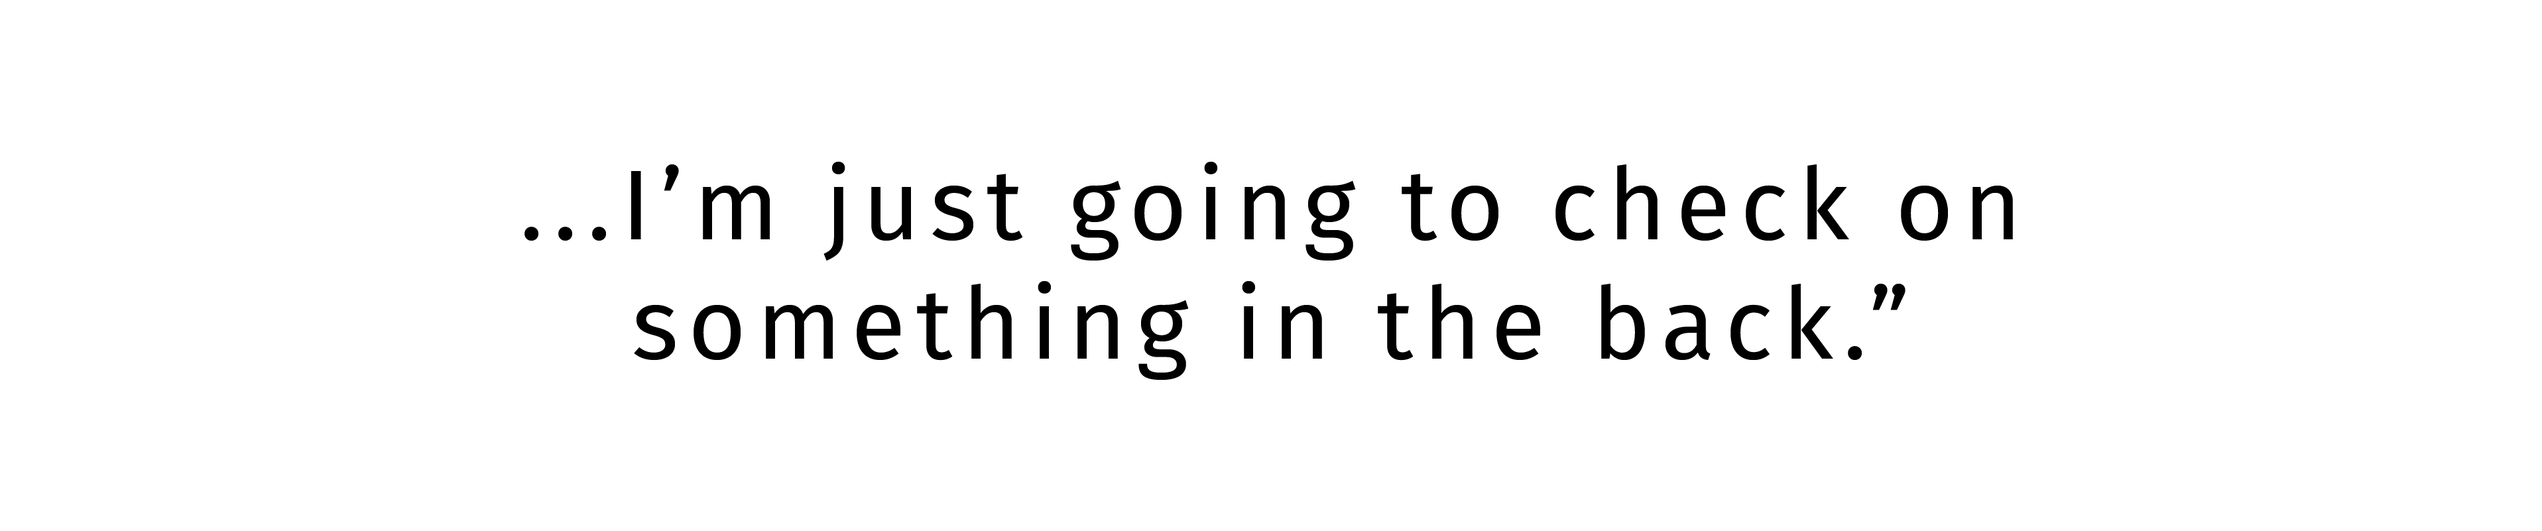
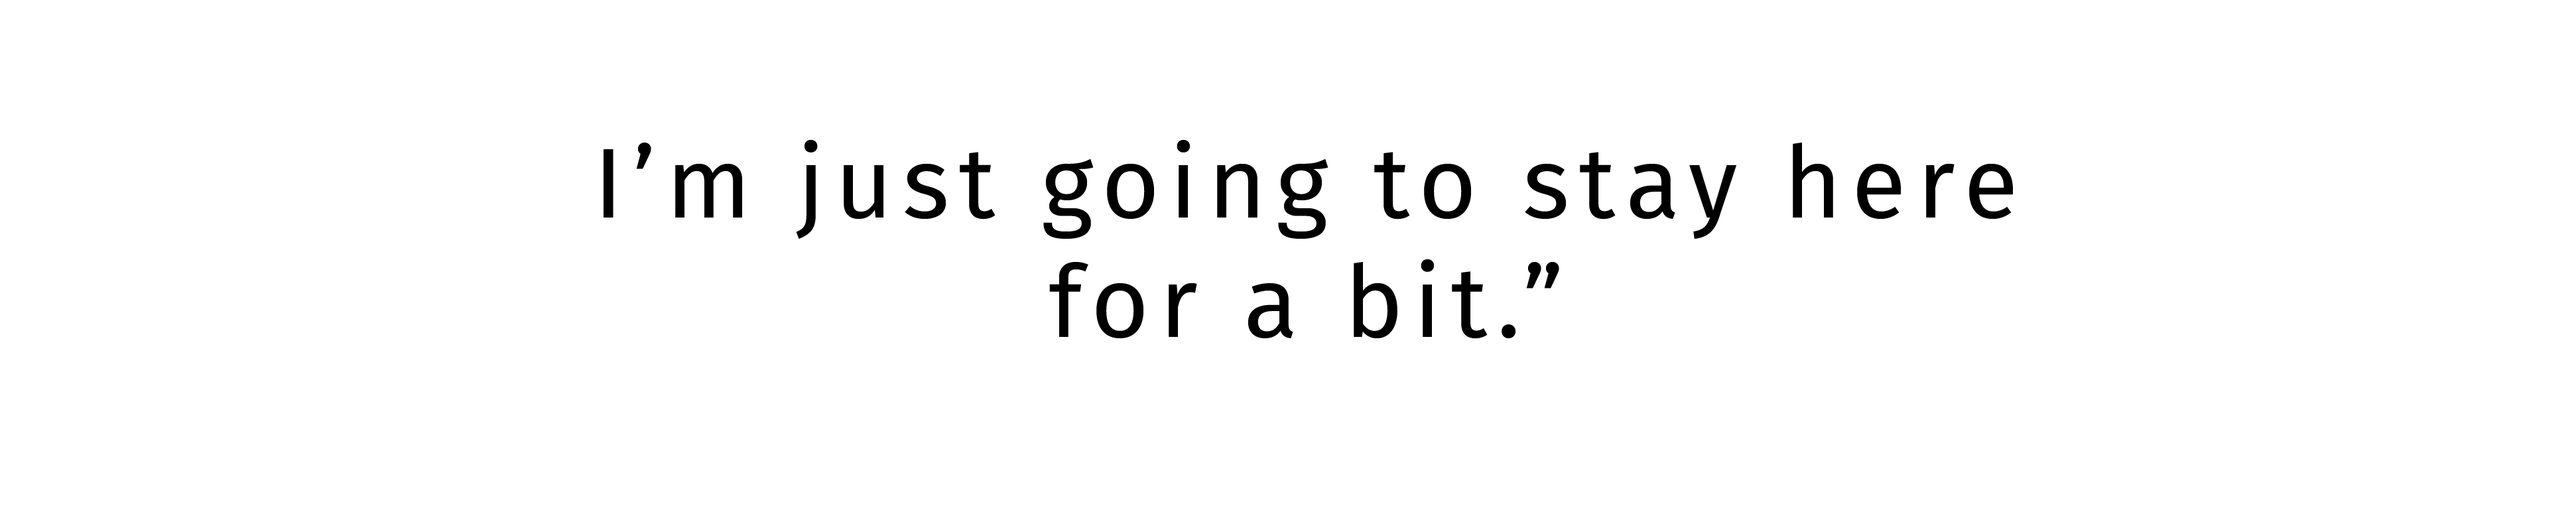
added stuff

Changed region(s): [[0.2173, 0.2798, 0.807, 0.715]]

diff --git a/TestGame/d3-game.js b/TestGame/d3-game.js
@@ -24,9 +24,20 @@
         .attr("x", 50)
         .attr("y", 50);
     let text1;
-    let girl;
-    let paddle = svg.append('svg:image');
+    let text2;
+    let text3;
+    let text4;
+    let text5;
+    let text6;
     let background = svg.append('svg:image').attr('xlink:href', 'images/stage/1.png');
+    let girl = svg.append('svg:image').attr('xlink:href', 'images/sprites/girlright.gif');
+    girl.attr("x", 160).attr("y", 390)
+        .attr("width", 130).attr("height", 130)
+        .attr("opacity", 0);
+    let paddle = svg.append('svg:image');
+    let hint = svg.append('svg:image').attr('xlink:href', 'images/sprites/glow.png')
+        .attr("x", 50).attr("y", 600)
+        .attr("width", 400).attr("height", 200).attr("opacity", 0);
     let nextDialog = false;
 
     // When a key is pressed, add it to the current keys array for further tracking
@@ -57,7 +68,7 @@
                 .classed(which + "_paddle", true)
                 .attr({
                     'xlink:href': 'images/sprites/idleleft.gif',
-                    "opacity": "0"
+                    "opacity": "0",
                 }),
                 update = function(x, y) {
                     let height = Screen().height * 0.15;
@@ -147,28 +158,76 @@
     }
 
     svg.on("click", function() {
+        console.log(dialog);
         if (backgroundNum == 0 || backgroundNum == 1) {
             let paddle = d3.select('.left_paddle');
-            if (nextDialog) dialog++;
             if (dialog == 0) {
                 backgroundNum++;
                 background.attr('xlink:href', 'images/stage/2.png');
+                girl.attr("opacity", 1);
 
-                girl = svg.append('svg:image').attr('xlink:href', 'images/sprites/girlright.gif');
-                girl.attr("x", 160).attr("y", 390)
-                    .attr("width", 130).attr("height", 130);
                 paddle.attr("opacity", "1");
                 text1 = svg.append('svg:image').attr('xlink:href', 'images/text/1.png');
                 text1.attr("x", 50).attr("y", 600)
                     .attr("width", 1000).attr("height", 200);
-                d3.select('svg').raise();
-                nextDialog = true;
-                return;
-            }
-            if (dialog == 1) {
-                console.log("Skip text");
-                canMove = true;
+                dialog++;
+            } else if (dialog == 1) {
+                console.log(dialog);
                 text1.attr("opacity", 0);
+                text2 = svg.append('svg:image').attr('xlink:href', 'images/text/2.png');
+                text2.attr("x", 50).attr("y", 600)
+                    .attr("width", 1000).attr("height", 200).attr("opacity", 1);
+                dialog++;
+            } else if (dialog == 2) {
+                canMove = true;
+                text2.attr("opacity", 0);
+                dialog++;
+            }
+        }
+        if (backgroundNum == 2) {
+            let paddle = d3.select('.left_paddle');
+            if (dialog === 4) {
+                text3.attr("opacity", 0);
+                canMove = true;
+                dialog++;
+            } else if (dialog === 5 && paddle.attr("x") >= 430 && paddle.attr("y") >= 210 && paddle.attr("x") <= 600 && paddle.attr("y") <= 230) {
+                text4 = svg.append('svg:image').attr('xlink:href', 'images/text/4.png');
+                text4.attr("x", 50).attr("y", 600)
+                    .attr("width", 1000).attr("height", 200).attr("opacity", 1);
+                canMove = false;
+                dialog++;
+            } else if (dialog === 6) {
+                text4.attr("opacity", 0);
+                canMove = true;
+                dialog += 2;
+            }
+        }
+        if (backgroundNum === 3) {
+            let paddle = d3.select('.left_paddle');
+            if (dialog === 9) {
+                text5.attr("opacity", 0);
+                canMove = true;
+                dialog++;
+                hint.attr("opacity", 0.6).attr("x", 370).attr("y", 320);
+            } else if (dialog === 10 && paddle.attr("x") >= 420 && paddle.attr("y") >= 210 && paddle.attr("x") <= 570 && paddle.attr("y") <= 240) {
+                dialog++;
+                hint.attr("opacity", 0.6).attr("x", 550).attr("y", 600);
+            } else if (dialog === 11 && paddle.attr("x") >= 650 && paddle.attr("y") >= 370 && paddle.attr("x") <= 980 && paddle.attr("y") <= 590) {
+                dialog++;
+            }
+        }
+        if (backgroundNum === 4) {
+            let paddle = d3.select('.left_paddle');
+            if (dialog === 12 && paddle.attr('y') <= 260) {
+                text6 = svg.append('svg:image').attr('xlink:href', 'images/text/6.png');
+                text6.attr("x", 50).attr("y", 600)
+                    .attr("width", 1000).attr("height", 200).attr("opacity", 1);
+                canMove = false;
+                dialog++;
+            } else if (dialog === 13) {
+                text6.attr("opacity", 0);
+                canMove = true;
+                dialog++;
             }
         }
         let paddle = d3.select('.left_paddle');
@@ -187,41 +246,51 @@
         switch (backgroundNum) {
             case 1:
                 if (paddle.attr("x") > 840 && paddle.attr("y") > 480) {
-                    console.log("Transistion");
+                    girl.attr("opacity", '0');
                     backgroundNum++;
                     background.attr('xlink:href', 'images/stage/3.png');
-                    girl.attr("opacity", '0');
-                    left.paddle(50, 600);
+                    left.paddle(50, paddle.attr("y"));
+                    if (dialog === 3) {
+                        dialog++;
+                        hint.attr("opacity", 0);
+                        text3 = svg.append('svg:image').attr('xlink:href', 'images/text/3.png');
+                        text3.attr("x", 50).attr("y", 600)
+                            .attr("width", 1000).attr("height", 200).attr("opacity", 1);
+                        canMove = false;
+                    }
                 }
                 break;
             case 2:
                 //Previous
                 if (paddle.attr("x") < 50) {
-                    console.log("Transistion");
                     backgroundNum--;
                     background.attr('xlink:href', 'images/stage/2.png');
-                    girl.attr("opacity", '1');
                     left.paddle(830, 550);
+                    girl.attr("opacity", '1');
                 }
                 //Next stage
                 if (paddle.attr("x") > 850 && paddle.attr("y") > 270) {
-                    console.log("Transistion");
                     backgroundNum++;
                     background.attr('xlink:href', 'images/stage/4.png');
                     left.paddle(50, 300);
+                    if (dialog === 8) {
+                        text5 = svg.append('svg:image').attr('xlink:href', 'images/text/5.png');
+                        text5.attr("x", 50).attr("y", 600)
+                            .attr("width", 1000).attr("height", 200).attr("opacity", 1);
+                        canMove = false;
+                        dialog++;
+                    }
                 }
                 break;
             case 3:
                 //Previous
                 if (paddle.attr("x") < 50) {
-                    console.log("Transistion");
                     backgroundNum--;
                     background.attr('xlink:href', 'images/stage/3.png');
                     left.paddle(850, 600);
                 }
                 //Next
                 if (paddle.attr("x") > 1030) {
-                    console.log("Transistion");
                     backgroundNum++;
                     background.attr('xlink:href', 'images/stage/5.png');
                     left.paddle(50, Math.max(250, paddle.attr("y")));
@@ -229,7 +298,6 @@
             case 4:
                 //Previous
                 if (paddle.attr("x") < 50) {
-                    console.log("Transistion");
                     backgroundNum--;
                     background.attr('xlink:href', 'images/stage/4.png');
                     left.paddle(1030, paddle.attr("y"));
@@ -258,7 +326,7 @@
                 if (newX >= 130 && newY >= 140 && newX <= 870 && newY <= 200) return (true); //sink
                 else return (false);
             case 3:
-                if (newX > 380 && newY > 20 && newX < 630 && newY < 190) return (true);
+                if (newX > 380 && newY > 20 && newX < 630 && newY < 210) return (true); //water can
                 return (false);
             case 4:
                 if (newY <= 230) return (true);
